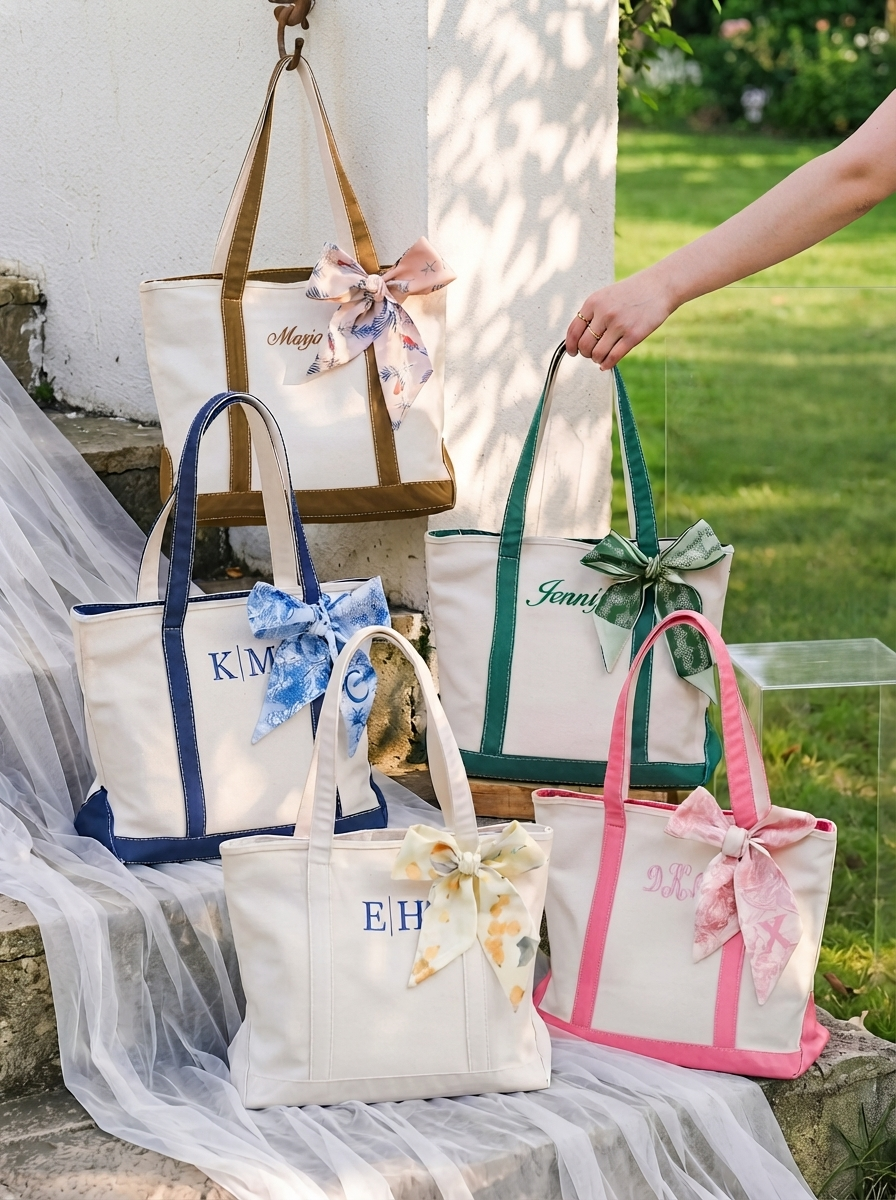
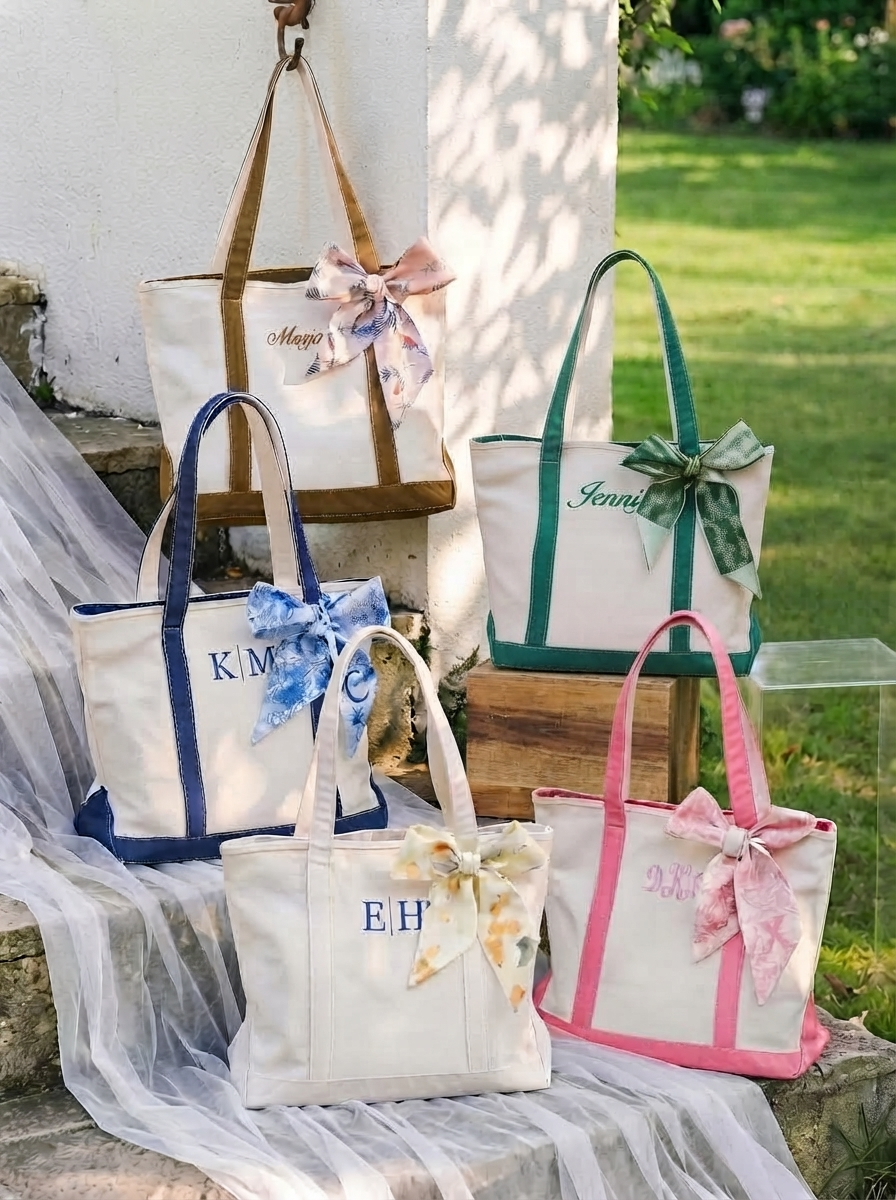
Custom Tote Bags Manufacturer

diff --git a/public/_preview-closures.html b/public/_preview-closures.html
@@ -1,0 +1,204 @@
+<!doctype html>
+<html lang="en">
+<head>
+<meta charset="utf-8">
+<meta name="viewport" content="width=device-width, initial-scale=1">
+<title>Preview — Six Closures, refined</title>
+<style>
+  :root{
+    --ivory:#F5F0E5; --clay:#EDE5D4; --forest:#1F3B2C; --forest-light:#2E4F3D;
+    --forest-deep:#14261B; --brass:#B08D4C; --kraft:#C9A87C; --moss:#8C8676; --charcoal:#21241C;
+    --hair:rgba(31,59,44,.16);
+    --serif:"Newsreader Variable",Georgia,"Times New Roman",serif;
+    --sans:"Instrument Sans Variable",system-ui,-apple-system,"Segoe UI",sans-serif;
+  }
+  *{box-sizing:border-box}
+  body{margin:0;background:var(--ivory);color:var(--charcoal);font-family:var(--sans);line-height:1.6}
+  .wrap{width:min(1160px,100% - 48px);margin-inline:auto}
+  .pnote{background:var(--forest-deep);color:var(--ivory);padding:26px 0}
+  .pnote h1{margin:0;font-family:var(--serif);font-weight:700;font-size:1.55rem;letter-spacing:-.02em}
+  .pnote p{margin:.5rem 0 0;font-size:.9rem;color:rgba(245,240,229,.72);max-width:82ch}
+  .opt{padding:clamp(2.5rem,5vw,4rem) 0}
+  .eyebrow{display:inline-flex;align-items:center;gap:.5rem;font-size:.7rem;font-weight:600;letter-spacing:.3em;text-transform:uppercase;color:var(--brass)}
+  h2.sec{margin:1rem 0 0;font-family:var(--serif);font-weight:600;font-size:clamp(1.7rem,3.2vw,2.6rem);letter-spacing:-.02em;line-height:1.06}
+  .sub{margin:.9rem 0 0;max-width:74ch;font-size:.96rem;color:var(--moss)}
+
+  /* ── the module ─────────────────────────────────────────────── */
+  .mod{margin-top:clamp(1.8rem,3.6vw,2.8rem);display:grid;grid-template-columns:1fr 1fr;gap:clamp(1.4rem,3vw,2.6rem);align-items:stretch}
+  .idxcol{display:flex;flex-direction:column;min-width:0}
+
+  .idx-head{
+    display:flex;align-items:center;gap:.55rem;margin-bottom:.9rem;
+    font-size:.66rem;font-weight:600;letter-spacing:.17em;text-transform:uppercase;color:var(--brass);
+  }
+  .idx-head svg{width:.95rem;height:.95rem}
+
+  /* the stage: fills the column so its height is always the rail's height */
+  .stage{position:relative;margin:0;min-height:300px}
+  .stage img{width:100%;height:100%;object-fit:cover;border-radius:1.3rem;display:block;background:var(--clay)}
+  .stage::after{
+    content:"";position:absolute;inset:0;border-radius:1.3rem;pointer-events:none;
+    background:linear-gradient(180deg,rgba(20,38,27,.10) 0%,rgba(20,38,27,0) 34%,rgba(20,38,27,.86) 100%);
+  }
+  .count{
+    position:absolute;top:.95rem;left:.95rem;z-index:2;
+    font-family:var(--serif);font-weight:600;font-size:.78rem;letter-spacing:.06em;
+    color:#fff;background:rgba(20,38,27,.5);border:1px solid rgba(245,240,229,.32);
+    border-radius:99px;padding:.3rem .68rem;
+  }
+  .count b{color:#E3C29A}
+  .stage .cap{position:absolute;left:1.15rem;right:1.15rem;bottom:1.05rem;z-index:2}
+  .stage .cap p{margin:0;font-size:.92rem;line-height:1.62;color:rgba(245,240,229,.94);max-width:42ch}
+
+  .nav{
+    position:absolute;top:50%;transform:translateY(-50%);z-index:3;cursor:pointer;
+    width:2.7rem;height:2.7rem;border-radius:50%;
+    display:inline-flex;align-items:center;justify-content:center;
+    background:rgba(245,240,229,.92);color:var(--charcoal);
+    border:1px solid rgba(31,59,44,.18);
+    transition:background .3s ease,color .3s ease,border-color .3s ease,transform .3s ease;
+  }
+  .nav:hover{background:var(--forest-light);color:var(--ivory);border-color:var(--forest-light)}
+  .nav svg{width:1.05rem;height:1.05rem}
+  .nav-prev{left:.9rem} .nav-next{right:.9rem}
+
+  /* ── the rail: text only, so the numeral carries the design ─── */
+  .idx{list-style:none;margin:0;padding:0;display:flex;flex-direction:column;flex:1}
+  .idx li{display:flex;flex:1}
+  .idx button{
+    flex:1;width:100%;cursor:pointer;text-align:left;font-family:inherit;
+    display:grid;grid-template-columns:2.5rem 1fr 1.15rem;gap:1rem;align-items:center;
+    background:none;border:0;border-top:1px solid var(--hair);border-left:3px solid transparent;
+    padding:.75rem 1rem .75rem .55rem;
+    transition:background .3s ease,border-color .3s ease,padding-left .3s ease;
+  }
+  .idx li:last-child button{border-bottom:1px solid var(--hair)}
+  .idx button:hover{background:rgba(176,141,76,.09);border-left-color:rgba(176,141,76,.45);padding-left:.8rem}
+  .idx button:hover .chev{transform:translateX(3px);color:var(--brass)}
+
+  /* the numeral sits in a ring — outline when idle, filled when selected */
+  .idx .n{
+    width:2.15rem;height:2.15rem;border-radius:50%;
+    display:inline-flex;align-items:center;justify-content:center;
+    font-family:var(--serif);font-weight:600;font-size:.8rem;color:var(--brass);
+    border:1px solid rgba(176,141,76,.45);
+    transition:background .3s ease,color .3s ease,border-color .3s ease;
+  }
+  .idx button:hover .n{background:rgba(176,141,76,.16)}
+  .idx button[aria-selected="true"]{background:rgba(176,141,76,.13);border-left-color:var(--brass);padding-left:.8rem}
+  .idx button[aria-selected="true"] .n{background:var(--brass);color:var(--ivory);border-color:var(--brass)}
+  .idx button:focus-visible{outline:2px solid var(--brass);outline-offset:-2px}
+
+  .idx .txt{display:flex;flex-direction:column;gap:.16rem;min-width:0}
+  .idx .name{font-family:var(--serif);font-weight:600;font-size:1.02rem;line-height:1.26;letter-spacing:-.01em;color:var(--charcoal)}
+  .idx button[aria-selected="true"] .name{color:var(--brass)}
+  .idx .spec{font-size:.62rem;font-weight:600;letter-spacing:.13em;text-transform:uppercase;color:var(--moss)}
+  .idx .chev{color:rgba(31,59,44,.32);transition:transform .3s ease,color .3s ease}
+  .idx .chev svg{width:1.05rem;height:1.05rem;display:block}
+  .idx button[aria-selected="true"] .chev{color:var(--brass)}
+
+  @media (max-width:860px){
+    .mod{grid-template-columns:1fr}
+    .stage{min-height:0;aspect-ratio:4/3}
+    .idx button{grid-template-columns:2.3rem 1fr 1.15rem;gap:.8rem;padding:.7rem .8rem .7rem .5rem}
+  }
+</style>
+</head>
+<body>
+
+<div class="pnote">
+  <div class="wrap">
+    <h1>六种闭合方式 · 定稿版预览</h1>
+    <p>已按你的要求改：去掉右侧缩略图；左图与右侧整列<b>等高</b>（图片高度由右侧六行撑出来，不写死比例）；横条重新设计。悬停和点击都试试。</p>
+  </div>
+</div>
+
+<section class="opt">
+  <div class="wrap">
+    <span class="eyebrow">The signature module</span>
+    <h2 class="sec">Six Closures, and Where Each Belongs</h2>
+    <p class="sub">The closure is the first part of the bag a customer touches and the first part that fails if it was chosen by habit. Pick a closure to see what it decides.</p>
+
+    <div class="mod">
+      <figure class="stage">
+        <span class="count"><b id="cn">01</b> / 06</span>
+        <button class="nav nav-prev" data-step="-1" aria-label="Previous closure">
+          <svg viewBox="0 0 24 24" fill="none" stroke="currentColor" stroke-width="1.9" stroke-linecap="round" stroke-linejoin="round"><path d="M15 5l-7 7 7 7"/></svg>
+        </button>
+        <button class="nav nav-next" data-step="1" aria-label="Next closure">
+          <svg viewBox="0 0 24 24" fill="none" stroke="currentColor" stroke-width="1.9" stroke-linecap="round" stroke-linejoin="round"><path d="M9 5l7 7-7 7"/></svg>
+        </button>
+        <img id="simg" src="https://img.leelinepackage.com/reusable-shopping-bags/close-tape.webp" alt="">
+        <figcaption class="cap"><p id="sline">Reseals trip after trip, for bags that come back with returns.</p></figcaption>
+      </figure>
+
+      <div class="idxcol">
+        <div class="idx-head">
+          <svg viewBox="0 0 24 24" fill="none" stroke="currentColor" stroke-width="1.8" stroke-linecap="round" stroke-linejoin="round" aria-hidden="true"><path d="M4 8h16M4 16h9"/></svg>
+          Select a closure
+        </div>
+        <ul class="idx" role="tablist" aria-label="Closures">
+          <li><button role="tab" aria-selected="true" data-i="0">
+            <span class="n">01</span>
+            <span class="txt"><span class="name">Peel-and-Seal Tape Tab</span><span class="spec">Adhesive, resealable</span></span>
+            <span class="chev"><svg viewBox="0 0 24 24" fill="none" stroke="currentColor" stroke-width="1.9" stroke-linecap="round" stroke-linejoin="round"><path d="M9 5l7 7-7 7"/></svg></span>
+          </button></li>
+          <li><button role="tab" aria-selected="false" data-i="1">
+            <span class="n">02</span>
+            <span class="txt"><span class="name">Cross-Stitched Handle Anchor</span><span class="spec">Box-X stitch</span></span>
+            <span class="chev"><svg viewBox="0 0 24 24" fill="none" stroke="currentColor" stroke-width="1.9" stroke-linecap="round" stroke-linejoin="round"><path d="M9 5l7 7-7 7"/></svg></span>
+          </button></li>
+          <li><button role="tab" aria-selected="false" data-i="2">
+            <span class="n">03</span>
+            <span class="txt"><span class="name">Hook-and-Loop Closure</span><span class="spec">Hook-and-loop strip</span></span>
+            <span class="chev"><svg viewBox="0 0 24 24" fill="none" stroke="currentColor" stroke-width="1.9" stroke-linecap="round" stroke-linejoin="round"><path d="M9 5l7 7-7 7"/></svg></span>
+          </button></li>
+          <li><button role="tab" aria-selected="false" data-i="3">
+            <span class="n">04</span>
+            <span class="txt"><span class="name">Concealed Magnetic Snap</span><span class="spec">Recessed, self-closing</span></span>
+            <span class="chev"><svg viewBox="0 0 24 24" fill="none" stroke="currentColor" stroke-width="1.9" stroke-linecap="round" stroke-linejoin="round"><path d="M9 5l7 7-7 7"/></svg></span>
+          </button></li>
+          <li><button role="tab" aria-selected="false" data-i="4">
+            <span class="n">05</span>
+            <span class="txt"><span class="name">Contrast Stitch Detail</span><span class="spec">Any thread color</span></span>
+            <span class="chev"><svg viewBox="0 0 24 24" fill="none" stroke="currentColor" stroke-width="1.9" stroke-linecap="round" stroke-linejoin="round"><path d="M9 5l7 7-7 7"/></svg></span>
+          </button></li>
+          <li><button role="tab" aria-selected="false" data-i="5">
+            <span class="n">06</span>
+            <span class="txt"><span class="name">Drawstring</span><span class="spec">Cinched cotton cord</span></span>
+            <span class="chev"><svg viewBox="0 0 24 24" fill="none" stroke="currentColor" stroke-width="1.9" stroke-linecap="round" stroke-linejoin="round"><path d="M9 5l7 7-7 7"/></svg></span>
+          </button></li>
+        </ul>
+      </div>
+    </div>
+  </div>
+</section>
+
+<script>
+  const data = [
+    { src:'close-tape.webp',       line:'Reseals trip after trip, for bags that come back with returns.' },
+    { src:'close-anchor.webp',     line:'Fitted as standard to every shell that leaves carrying a load.' },
+    { src:'close-hook-loop.webp',  line:'For cooler and insulated shells opened and shut at the counter.' },
+    { src:'close-snap.webp',       line:'For gift and boutique shells that need the printed face left clean.' },
+    { src:'close-stitch.webp',     line:'For shells where the logo sits close to a join and the seam shows.' },
+    { src:'close-drawstring.webp', line:'For produce bags and hardware-free promotional shells.' },
+  ];
+  const BASE = 'https://img.leelinepackage.com/reusable-shopping-bags/';
+  const tabs = [...document.querySelectorAll('.idx button')];
+  let i = 0;
+
+  function paint() {
+    document.getElementById('simg').src = BASE + data[i].src;
+    document.getElementById('sline').textContent = data[i].line;
+    document.getElementById('cn').textContent = String(i + 1).padStart(2, '0');
+    tabs.forEach((b, k) => b.setAttribute('aria-selected', String(k === i)));
+  }
+
+  tabs.forEach((b) => b.addEventListener('click', () => { i = Number(b.dataset.i); paint(); }));
+  document.querySelectorAll('[data-step]').forEach((b) => {
+    b.addEventListener('click', () => { i = (i + Number(b.dataset.step) + data.length) % data.length; paint(); });
+  });
+  paint();
+</script>
+</body>
+</html>
